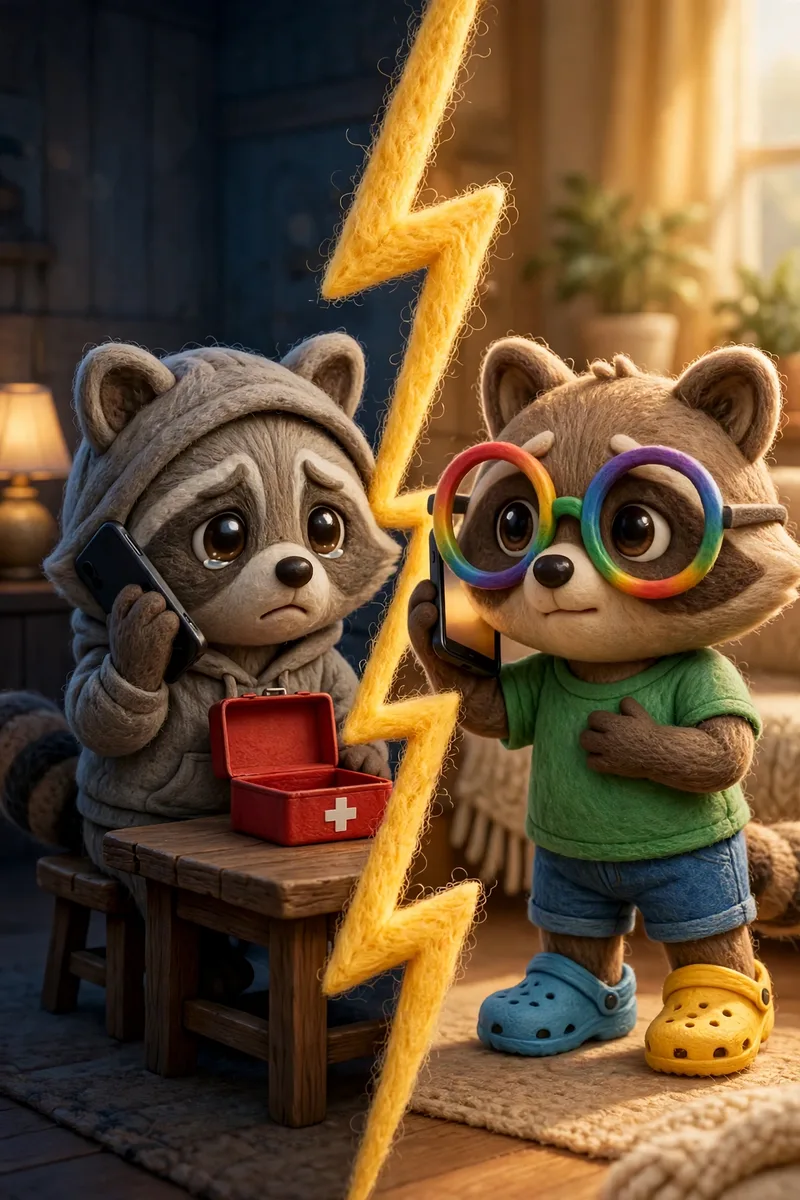
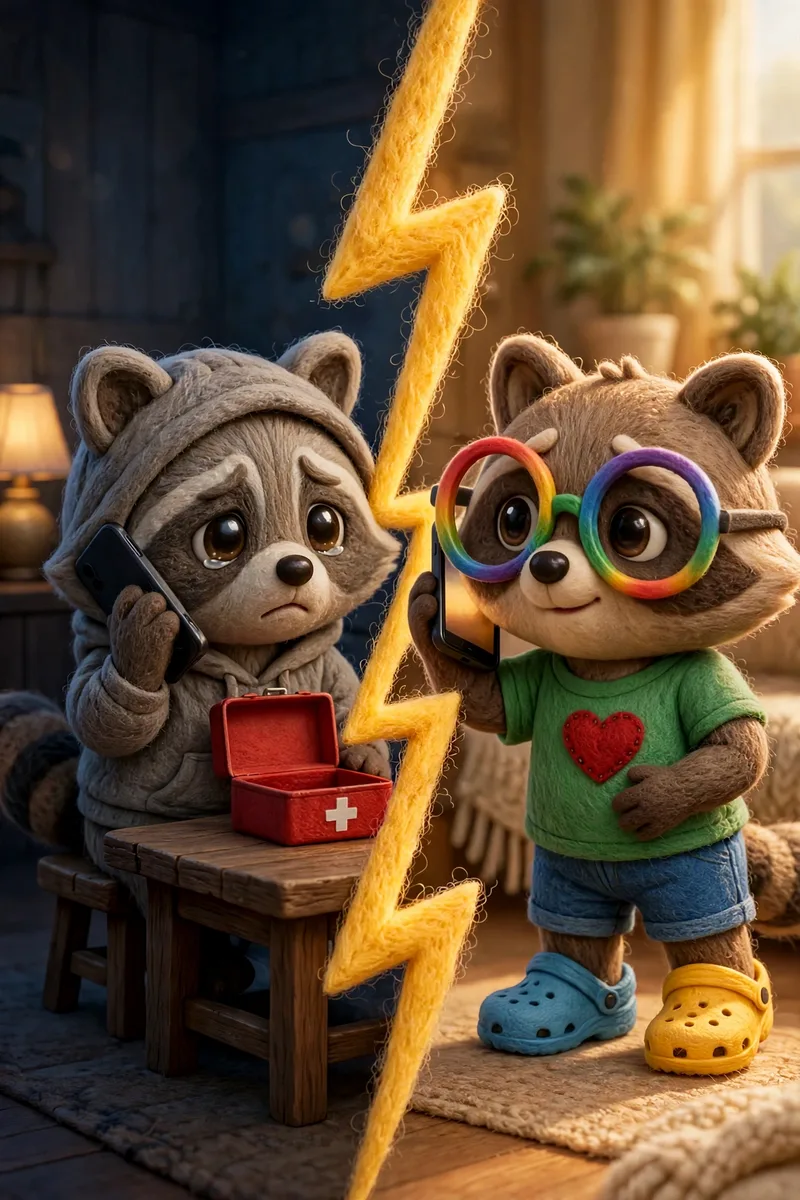
thinking-about-suicide: heart on Igor's shirt, concerned and supportive
Claude-Session: https://claude.ai/code/session_01HmaJsNAiEgwFdr8hyC3baF

diff --git a/_d/thinking-about-suicide.md b/_d/thinking-about-suicide.md
@@ -6,7 +6,7 @@ tags:
 permalink: /thinking-about-suicide
 ---
 
-{% include repo_image_float_right.html src="raccoon-thinking-suicide-call.webp" alt="Split screen divided by a yellow lightning bolt. On the left, a sad, worried young raccoon in a grey hoodie sits by an open red first-aid kit and holds its phone to his ear. On the right, a raccoon in rainbow glasses answers his phone looking concerned and caring, one paw on his chest, listening closely." %}
+{% include repo_image_float_right.html src="raccoon-thinking-suicide-call.webp" alt="Split screen divided by a yellow lightning bolt. On the left, a sad, worried young raccoon in a grey hoodie sits by an open red first-aid kit and holds its phone to his ear. On the right, a raccoon in rainbow glasses with a red felt heart on his green shirt answers his phone, concerned and supportive, listening closely." %}
 
 Suicide is a brain attack, just like a heart attack. If your chest was crushing, you wouldn't sit alone hoping it clears up. You'd call someone, because it might kill you. Brain attacks are exactly the same. If you're thinking about suicide, or the thought has even crossed your mind, call someone right now.
 
